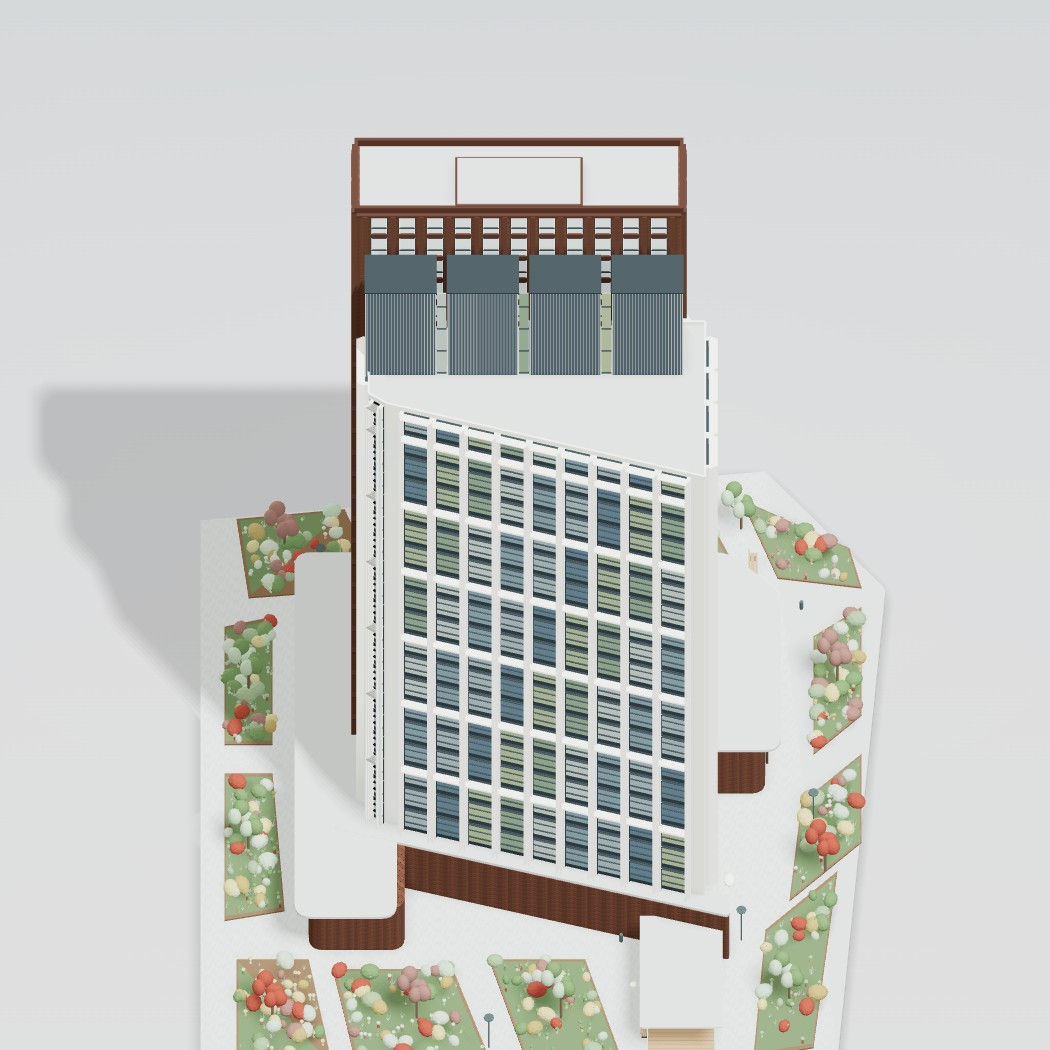
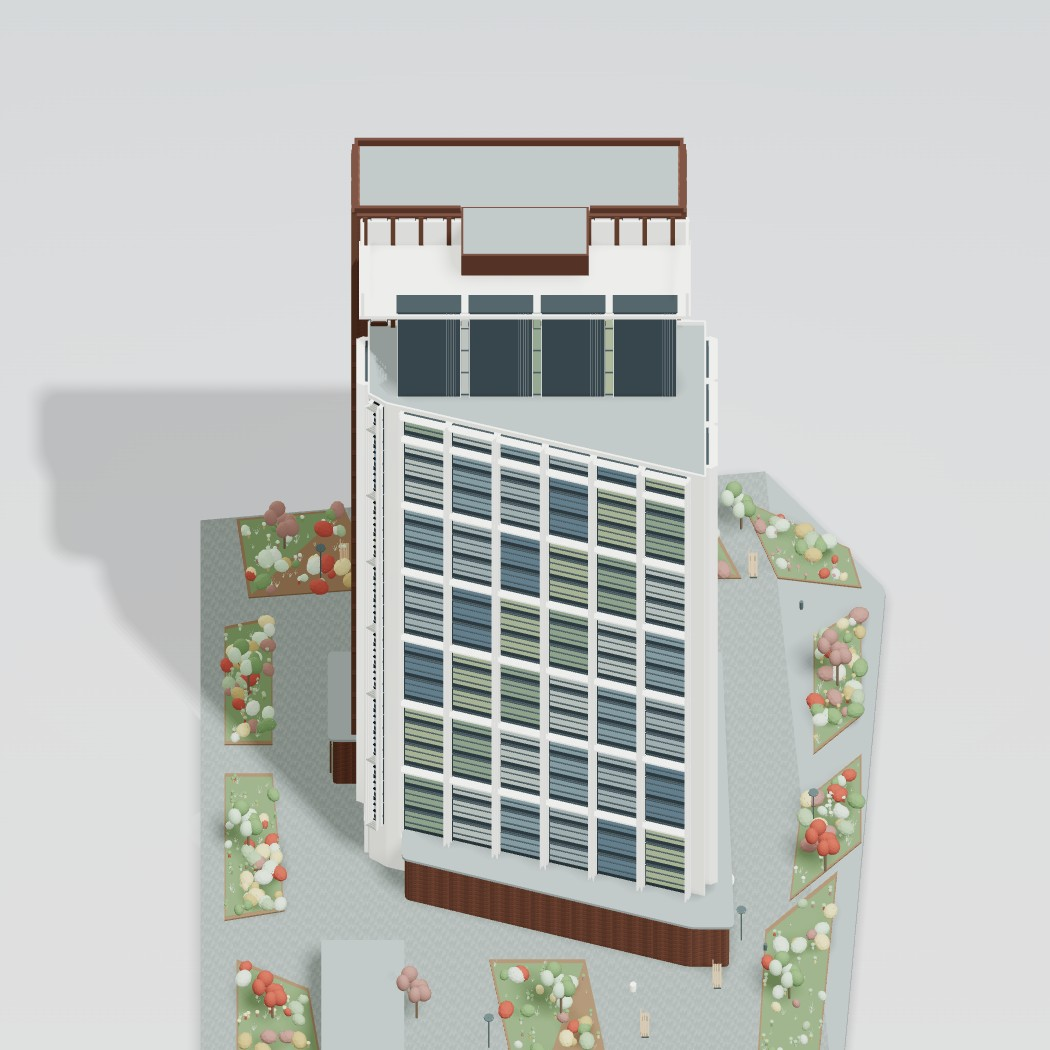
Refine second tower roof, continuous podium and six-bay diagonal facade from photos

Changed region(s): [[0.1829, 0.1219, 0.8533, 1.0], [0.0305, 0.4876, 0.061, 0.5181]]

diff --git a/assets/photo-tower-project.js b/assets/photo-tower-project.js
@@ -7,13 +7,13 @@
   const color=c=>new T.Color(c).convertSRGBToLinear();
   const material=(c,o={})=>{const m=new T.MeshStandardMaterial(Object.assign({color:color(c),roughness:.78,metalness:0},o));materials.push(m);return m};
   function texture(kind){const c=document.createElement('canvas');c.width=256;c.height=128;const x=c.getContext('2d');if(!x)return null;
-   x.fillStyle=kind==='brick'?'#3d2e28':'#b8bfbd';x.fillRect(0,0,256,128);
+   x.fillStyle=kind==='brick'?'#3d2e28':'#9ea6a5';x.fillRect(0,0,256,128);
    for(let row=0;row<8;row++)for(let col=-1;col<8;col++){const ox=col*48+(row%2)*24,oy=row*16;
-    x.fillStyle=kind==='brick'?['#674333','#6e4838','#614030','#754b37'][(row+col+8)%4]:['#c3c8c5','#ced1cb','#c8cdc9'][(row+col+8)%3];x.fillRect(ox+1,oy+1,46,14);
+    x.fillStyle=kind==='brick'?['#674333','#6e4838','#614030','#754b37'][(row+col+8)%4]:['#a9b0ad','#b9bdb8','#b0b7b2'][(row+col+8)%3];x.fillRect(ox+1,oy+1,46,14);
    }
    const tex=new T.CanvasTexture(c);tex.wrapS=tex.wrapT=T.RepeatWrapping;tex.encoding=T.sRGBEncoding;tex.anisotropy=4;return tex;
   }
-  const M={white:material(0xe8e8df),edge:material(0xf2f0e7),brick:material(0xffffff,{map:texture('brick'),roughness:.94}),brown:material(0x583a2e),bronze:material(0x614333),frame:material(0x3a4448),screen:material(0x525e64),roof:material(0xbfc3c0),pave:material(0xffffff,{map:texture('pave'),roughness:1}),curb:material(0x7c654c),soil:material(0x687c57),wood:material(0xaf9272),steel:material(0x52605f),light:material(0xf1f0df),trunk:material(0x73624f)};
+  const M={white:material(0xe8e8df),edge:material(0xf2f0e7),brick:material(0xffffff,{map:texture('brick'),roughness:.94}),brown:material(0x583a2e),bronze:material(0x614333),frame:material(0x3a4448),screen:material(0x3f494e),roof:material(0x899290),pave:material(0xbbc0bd,{map:texture('pave'),roughness:1}),curb:material(0x7c654c),soil:material(0x687c57),wood:material(0xaf9272),steel:material(0x52605f),light:material(0xf1f0df),trunk:material(0x73624f)};
   const glass=[0x99a9aa,0x7f949b,0xb4bdb5,0x879b82,0xa0ae87,0x647b87].map(c=>GranVisual.glass(material(c,{roughness:.32,metalness:.08})));
   const upperGlass=GranVisual.glass(material(0xd9e0da,{roughness:.28,metalness:.09}));
   const plants=[0x6f895c,0x8ea27f,0xb4c0ad,0xa79461,0x96736a,0xa35142,0xc1b582,0xabc0a3].map(c=>material(c,{roughness:1,flatShading:true}));
@@ -28,18 +28,18 @@
   }
   function polygon(p,y,m){const G=new T.ShapeGeometry(shape(p));G.rotateX(-Math.PI/2);const a=G.attributes.position,uv=G.attributes.uv;for(let i=0;i<uv.count;i++)uv.setXY(i,a.getX(i)/2.4,a.getZ(i)/1.2);geo.push(G);const o=new T.Mesh(G,m);o.position.y=y;o.receiveShadow=true;vpm.add(o);}
   function brickBox(x,y,z,w,h,d){const G=new T.BoxGeometry(w,h,d),uv=G.attributes.uv;for(let f=0;f<6;f++){const uw=f<2?d:w,vh=f===2||f===3?d:h;for(let k=0;k<4;k++){const i=f*4+k;uv.setXY(i,uv.getX(i)*uw/2.4,uv.getY(i)*vh/1.2)}}geo.push(G);const o=new T.Mesh(G,M.brick);o.position.set(x,y,z);o.castShadow=o.receiveShadow=true;vpm.add(o);}
-  const site=[[-31,-27],[27,-27],[32,20],[20,30],[-28,26]];
+  const site=[[-37,-27],[27,-27],[32,20],[20,30],[-35,26]];
   solid(site,-.8,.8,M.roof,.5);polygon(site,.025,M.pave);
   const brown={x:3.5,z:-.5,w:7,d:27,f:24,y0:6.2},whitePlan=[[-8.5,-11.5],[-7.5,-13],[-.15,-13],[-.15,15],[-16,15]],FH=3.15,whiteFloors=19,whiteTop=66.05,brownTop=81.8;
-  const podium=[[-17,-18],[18,-18],[18,16],[14,20],[-1,20],[-1,-10],[-17,-10]];
-  solid(podium,.12,5.95,M.brick,1.3);solid(podium.map(([x,z])=>[x*1.065,z*1.065]),6.12,.3,M.roof,1.4);
+  const podium=[[0,-16],[8.8,-16],[8.8,16],[-18.7,17],[-18.7,13.5],[-11.8,-10],[0,-10]];
+  solid(podium,.12,5.95,M.brick,.42);solid(podium.map(([x,z])=>[x*1.025,z*1.025]),6.12,.3,M.roof,.50);
   brickBox(brown.x,brown.y0+brown.f*FH/2,brown.z,brown.w,brown.f*FH,brown.d);
   solid(whitePlan,.12,whiteTop-.12,M.white,.18);
   // Exposed wedge-shaped roof and thin parapet follow the actual five-sided plan.
   polygon(whitePlan,whiteTop+.025,M.roof);
   whitePlan.forEach((a,i)=>{const b=whitePlan[(i+1)%whitePlan.length],dx=b[0]-a[0],dz=b[1]-a[1],L=Math.hypot(dx,dz);box(M.white,(a[0]+b[0])/2,whiteTop+.26,(a[1]+b[1])/2,L,.5,.18,-Math.atan2(dz,dx));});
   const brownPlan=[[0,-14],[7,-14],[7,13],[0,13]];
-  function windows(plan,floors,start,brownFacade){plan.forEach((a,i)=>{const b=plan[(i+1)%plan.length],dx=b[0]-a[0],dz=b[1]-a[1],L=Math.hypot(dx,dz),nx=dz/L,nz=-dx/L,angle=-Math.atan2(dz,dx),margin=brownFacade?.7:1.25,n=Math.max(1,Math.floor((L-2*margin)/(brownFacade?2.25:2.7))),pitch=(L-2*margin)/n;
+  function windows(plan,floors,start,brownFacade){plan.forEach((a,i)=>{const b=plan[(i+1)%plan.length],dx=b[0]-a[0],dz=b[1]-a[1],L=Math.hypot(dx,dz),nx=dz/L,nz=-dx/L,angle=-Math.atan2(dz,dx),margin=brownFacade?.7:1.25,n=Math.max(1,Math.floor((L-2*margin)/(brownFacade?2.25:4.1))),pitch=(L-2*margin)/n;
    for(let j=0;j<n;j++){const t=(margin+(j+.5)*pitch)/L,x=a[0]+dx*t,z=a[1]+dz*t,ww=pitch-(brownFacade?.95:.65);
     for(let f=0;f<floors;f++){const y=start+f*FH+FH/2,gm=brownFacade&&f>=19?upperGlass:glass[(j+Math.floor(f/3)+i)%glass.length];box(gm,x+nx*.10,y,z+nz*.10,ww,FH-.28,.14,angle);
      for(const k of [-1,1]){const px=x+dx/L*k*ww/2,pz=z+dz/L*k*ww/2;box(M.frame,px+nx*.16,y,pz+nz*.16,.055,FH-.20,.20,angle);box(M.frame,x+nx*.16,y+k*(FH-.28)/2,z+nz*.16,ww+.10,.055,.20,angle);}
@@ -60,41 +60,39 @@
    }
   });}
   windows(brownPlan,brown.f,brown.y0,true);windows(whitePlan,whiteFloors,6.2,false);
-  // Entrances follow the oblique white elevation, not the old rectangular wall.
-  const tx=-7.5/Math.hypot(7.5,26.5),tz=26.5/Math.hypot(7.5,26.5),nx=-tz,nz=tx,doorAngle=-Math.atan2(tz,tx);
-  for(const z of [-7,-1,5]){const x=-16+(15-z)*7.5/26.5;
-   box(glass[1],x+nx*.14,2.4,z+nz*.14,1.8,4.2,.12,doorAngle);
-   for(const side of [-1,1])box(M.white,x+tx*side+nx*.28,2.5,z+tz*side+nz*.28,.16,4.6,.40,doorAngle);
-   box(M.white,x+nx*.28,4.7,z+nz*.28,2.1,.18,.42,doorAngle);
-  }
-  // A diagonal podium wing echoes the white facade's actual footprint.
-  const apron=[[-9,-16],[-6.9,-14.8],[-16,17],[-18,17]];
-  solid(apron,.12,5.95,M.brick,.35);solid(apron,6.12,.30,M.roof,.45);
-  // Broad brick-base portal, glazing and slender entrance mullions.
-  box(glass[3],7,2.3,20.04,10,3.9,.12);for(let x=2;x<=12;x+=1.25)box(M.bronze,x,2.3,20.15,.075,4.1,.2);box(M.brown,7,4.4,20.14,10.4,.18,.25);
+  // Three entrance bays on the short exposed white end; the long face
+  // stands over the continuous brick podium seen in the roof reference.
+  for(const x of [-6.1,-3.65,-1.2]){box(glass[1],x,2.45,-13.10,1.5,4.1,.12);for(const side of [-1,1])box(M.white,x+side*.85,2.5,-13.2,.20,4.7,.35);box(M.white,x,4.75,-13.22,1.9,.22,.38);}
+  box(glass[3],3.5,2.35,-16.04,5.4,4.0,.12);for(let x=1;x<6.2;x+=1.05)box(M.bronze,x,2.35,-16.15,.065,4.1,.20);
   // Two projecting glazed bays on the brown wall, as visible in the close reference.
   for(const z of [-1.6,1.3]){box(M.bronze,7.50,39.3,z,1.05,5.8,2.4);box(glass[2],8.05,39.3,z,.12,5.5,2.15);for(const y of [36.5,39.3,42.1])box(M.edge,8.14,y,z,.16,.1,2.4);}
-  // Brown roof coping, raised roof hatch and recessed grey roof plane.
+  // Long narrow roof with a projecting central service enclosure: the
+  // outline reads as a U from above rather than a hatch on the rear roof.
   box(M.roof,3.5,brownTop+.08,-.5,6.5,.15,26.5);
-  for(const x of [.04,6.96])box(M.brown,x,brownTop+.48,-.5,.28,.8,27.2);
+  box(M.brown,6.96,brownTop+.48,-.5,.28,.8,27.2);
+  for(const [z,d] of [[-9.7,8.7],[9.2,7.6]])box(M.brown,.04,brownTop+.48,z,.28,.8,d);
   for(const z of [-14.04,13.04])box(M.brown,3.5,brownTop+.48,z,7.2,.8,.28);
-  box(M.brown,2.6,brownTop+.50,-.5,5,.8,10.6);box(M.roof,2.6,brownTop+.96,-.5,4.65,.15,10.25);
-  // Reference roof view: four broad dark faces in one row parallel to the
-  // long brown facade (Z), with narrow glazed slots and a triangular forecourt.
+  solid([[-4.7,-5.3],[.3,-5.3],[.3,5.3],[-4.7,5.3]],79.5,2.8,M.brown);
+  box(M.roof,-2.2,82.34,0,4.65,.12,10.25);
+  // Raised white U-shaped shoulder behind the four dark faces.
+  const shoulder=[[-7.7,-13.8],[.1,-13.8],[.1,13.8],[-7.7,13.8]];
+  solid(shoulder,77.4,.45,M.white);
+  box(M.white,-.30,79.5,0,.30,3.3,27.4);
+  for(const z of [-13.5,13.5])box(M.white,-3.8,79.5,z,7.8,3.3,.25);
   const roofBlades=[];
   for(let j=0;j<4;j++){
-   const x=-3.4,z=-10.35+j*6.85,h=11.7,top=whiteTop+h;roofBlades.push({x,z,top});
-   box(M.screen,x,whiteTop+h/2,z,3.8,h,5.9);
-   box(M.frame,x,top+.07,z,3.92,.14,6.0);
-   // The exposed front face is wide along Z; its fine ribs are vertical.
-   for(let off=-2.75;off<2.8;off+=.25)box(M.roof,x-1.93,whiteTop+h/2,z+off,.045,h,.045);
-   for(const side of [-1,1])box(M.edge,x-1.99,whiteTop+h/2,z+side*2.9,.14,h,.07);
-   if(j<3){const gz=z+3.42;box(glass[(j+2)%glass.length],x-1.77,whiteTop+h/2,gz,.10,h-.3,.78);for(let y=whiteTop+.3;y<top;y+=3.15)box(M.frame,x-1.85,y,gz,.15,.075,.82);}
+   const x=-6.65,z=-8+j*6,h=12.0,top=whiteTop+h;roofBlades.push({x,z,top});
+   box(M.screen,x,whiteTop+h/2,z,1.7,h,5.3);
+   box(M.frame,x,top+.06,z,1.78,.12,5.38);
+   // Broad dark planes with a cluster of thin vertical ribs on one edge.
+   for(const off of [1.45,1.65,1.85,2.05,2.25])box(M.roof,x-.88,whiteTop+h/2,z+off,.035,h,.035);
+   for(const side of [-1,1])box(M.edge,x-.94,whiteTop+h/2,z+side*2.62,.10,h,.055);
+   if(j<3){const gz=z+3;box(glass[(j+2)%glass.length],x-.75,whiteTop+h/2,gz,.10,h-.3,.62);for(let y=whiteTop+.3;y<top;y+=3.15)box(M.frame,x-.84,y,gz,.12,.065,.64);}
   }
   // Angular planted beds, cut by the paved circulation network.
   const beds=[
-   [[-29,-24],[-18,-24],[-18,-18],[-29,-16]], [[-29,-14],[-19,-16],[-19,-6],[-28,-3]],
-   [[-28,0],[-18,-3],[-18,5],[-28,8]], [[-28,19],[-15,20],[-9,26],[-27,24]],
+   [[-35,-24],[-18,-24],[-21,-18],[-35,-16]], [[-35,-14],[-31,-16],[-31,-6],[-35,-3]],
+   [[-35,0],[-18,-3],[-18,5],[-35,8]], [[-35,19],[-15,20],[-9,26],[-34,24]],
    [[-12,22],[-2,23],[3,28],[-6,28]], [[3,24],[15,24],[18,28],[7,28]],
    [[21,21],[29,18],[24,27],[20,28]], [[21,5],[29,2],[30,14],[21,18]],
    [[21,-9],[29,-12],[30,-1],[21,2]], [[19,-23],[27,-24],[28,-15],[20,-12]],
@@ -119,7 +117,7 @@
    for(let j=0;j<7;j++){const a=j*2.399,rad=.45+(j%3)*.35,ex=x+Math.cos(a)*rad,ez=z+Math.sin(a)*rad,ey=h+(j%3)*.5;branch([x,h*.65,z],[ex,ey,ez],.035);stamp(ball,plants[i%4===0?5:(i%4===1?4:(j%2?0:7))],ex,ey+.45,ez,.55+(j%2)*.16,.85,.62,j);}
   });
   // Pergola/play pavilion: slim posts, layered roof, timber platform, hanging white rings.
-  const px=-22,pz=13;
+  const px=-24.5,pz=-13.5;
   for(let i=0;i<28;i++)box(M.wood,px-5.4+i*.4,.18,pz,.37,.25,5.7);
   for(const x of [px-5.5,px,px+5.5])for(const z of [pz-2.8,pz+2.8])box(M.light,x,2.05,z,.09,3.8,.09);
   for(const x of [px-2.8,px+2.8]){box(M.roof,x,4.02,pz,5.8,.10,6.9);box(M.light,x,3.91,pz,5.8,.08,6.6);}
@@ -135,7 +133,7 @@
   // Fine paving joints at the entrance plaza and low cylindrical site furniture.
   for(const [x,z] of [[-16,8],[-17,20],[20,-7],[18,23]])stamp(cylinder,M.steel,x,.5,z,.16,.95,.16);
   batches.forEach(({G,m,list})=>{const mesh=new T.InstancedMesh(G,m,list.length);list.forEach((matrix,i)=>mesh.setMatrixAt(i,matrix));mesh.instanceMatrix.needsUpdate=true;mesh.castShadow=mesh.receiveShadow=true;vpm.add(mesh)});
-  root.userData.geo=geo;root.userData.materials=materials;root.userData.reference={name:'Project 2 from supplied photos',estimated:true,brownWhiteTower:true,whitePortalMouldings:true,brickPodium:true,roofScreen:true,roofBlades,bladeAxis:'z',obliqueWhiteFront:true,whitePlan,portalDepth:.94,upperBrownBays:true,podiumOverhang:1.065,pergola:true,hangingRings:2,mixedPlanting:true};
+  root.userData.geo=geo;root.userData.materials=materials;root.userData.reference={name:'Project 2 from supplied photos',estimated:true,brownWhiteTower:true,whitePortalMouldings:true,brickPodium:true,continuousPodium:true,raisedRoofShoulder:true,projectingServiceRoom:true,roofScreen:true,roofBlades,bladeAxis:'z',obliqueWhiteFront:true,whitePlan,portalDepth:.94,upperBrownBays:true,podiumOverhang:1.065,pergola:true,hangingRings:2,mixedPlanting:true};
   return{root,g,radius:Math.max(Math.hypot(63,57)/2,82.6*.95),maxH:82.6};
  }
  global.GranPhotoTower={build};

diff --git a/review/babushkinskaya-refinement/README.md b/review/babushkinskaya-refinement/README.md
@@ -1,11 +1,23 @@
-# Второй проект — уточнение по приоритетному виду сверху
+# Второй проект — реконструкция по фотографиям
 
-Основа публикации: cda1dd62a7f264b2f23b8900a605ac57239e6ac4. Вторая карточка, ул. Баб****ая; третий проект не заменяется.
+Основа публикации: cda1dd62a7f264b2f23b8900a605ac57239e6ac4. Вторая карточка, ул. Баб****ая; третий проект не заменяется. Кадры и проверки относятся к коммиту, содержащему этот файл; полный SHA указан в PR #28.
 
-Коричневая часть сужена до тонкой пластины: её кровля — длинная узкая полоса, как на приоритетном изображении. Белое крыло имеет диагональную переднюю плоскость по всей длине, а не прямоугольный план с небольшим срезанным уголком. Над ним — четыре широкие тёмные вертикальные части в одном ряду вдоль длинного коричневого фасада (ось Z), с узкими остеклёнными промежутками. Перед ними оставлена открытая клиновидная кровля. Наклон контура сверяется с последним изображением пользователя: ближний выступ белого крыла находится у положительного конца Z. Входы и диагональная часть стилобата следуют этому контуру.
+По приоритетному виду сверху перестроены тонкая коричневая пластина с длинной узкой кровлей, выступающий центральный технический объём, поднятое белое П-образное обрамление и четыре широкие тёмные секции вдоль коричневого фасада. Между ними — узкие остеклённые щели; перед ними — открытая клиновидная кровля. Белый передний фасад диагональный по всей длине, с шестью широкими оконными осями и глубокими порталами через три этажа. Кирпичный стилобат собран единым контуром с диагональным фасадом и нависающим серым покрытием. Уточнены входы, посадки и положение павильона с подвесными кольцами.
 
-Сохранены глубокие оконные порталы, верхние светлые пролёты коричневого фасада, парапеты и благоустройство. Тексты, паспорт и другие проекты, разрешение и вращение не менялись. Размеры, скрытые стороны и высоты остаются оценочными, без обмерной точности.
+Тексты, показатели, остальные проекты, штатная камера, освещение, вращение и разрешение сайта сохранены. Размеры и скрытые детали восстановлены оценочно по фотографиям; обмерная точность не заявляется.
 
-Проверка: npm test, включая лучи в четырёх верхних объёмах, проверку свободной клиновидной кровли и фактического направления диагонального фасада. Chromium: два общих ракурса, вид сверху с камерой напротив длинной стороны, крупный фасад и ночь, ошибки JS и мобильное переполнение. Все кадры — Three.js сайта. before-white.jpg — опубликованная исходная модель до всей доработки.
+## Кадры
 
-Версия обновлена в PR для согласования. Публичный сайт не изменён.
+Все изображения получены реальным Three.js-рендерером сайта, без генеративной дорисовки.
+
+- white.jpg, brown.jpg, roof.jpg, detail.jpg, night.jpg — модель в штатной ортографической камере сайта, дополнительные ракурсы и ночь.
+- reference-view.jpg — та же модель и материалы с отдельной перспективной камерой, подобранной по видимым точкам исходного снимка, и нейтральным фоном. Это ракурс для сопоставления; штатная камера и фон сайта не менялись. Невидимые в исходнике размеры и ландшафт не являются точной копией.
+- before-white.jpg, before-brown.jpg, before-roof.jpg — опубликованная модель до всей доработки.
+
+## Проверки и воспроизведение
+
+npm test проходит: геометрия, навигация, калькулятор, проектный просмотрщик, резервный режим при недоступном WebGL и жизненный цикл сцен. Геометрические лучи проверяют толщину коричневого корпуса, четыре верхних секции, поднятое белое обрамление, выступ технического объёма, свободную клиновидную кровлю и направление диагонального фасада. Второй проект: 205 121 треугольник, 77 mesh. Это счётчики геометрии, не измерение FPS на компьютере пользователя.
+
+В Chromium сняты дневные и ночной ракурсы; ошибок JavaScript и переполнения при ширине 390 px нет. Playwright и Chromium нужны только для воспроизведения снимков, не для работы сайта. Запустить статический сервер из корня репозитория на порту 8052, затем node review/babushkinskaya-refinement/browser.cjs и node review/babushkinskaya-refinement/reference-view.cjs. Другой адрес задаётся через GRAN_REVIEW_URL. Параметры перспективной камеры — reference-camera.json.
+
+Изменения подготовлены в PR для согласования. Публичный сайт не изменён.

diff --git a/AGENTS.md b/AGENTS.md
@@ -69,3 +69,5 @@
 - Приоритеты сверки: взаимное расположение объёмов, скошенный план белого крыла, многоступенчатые оконные порталы, верхняя тёмная надстройка и кирпичный стилобат.
 
 - Для второго проекта последний присланный вид сверху имеет приоритет: надстройка идёт вдоль коричневого корпуса, перед ней — открытая клиновидная кровля; белый передний фасад диагональный по всей длине.
+
+- Пользователь просит продолжать реконструкцию второго проекта по доступным фотографиям; исходной модели сейчас нет. Не повторять запрос исходника. Для сопоставления последнего фото использовать отдельно подписанный перспективный ракурс; штатную камеру сайта не менять без отдельной задачи.
